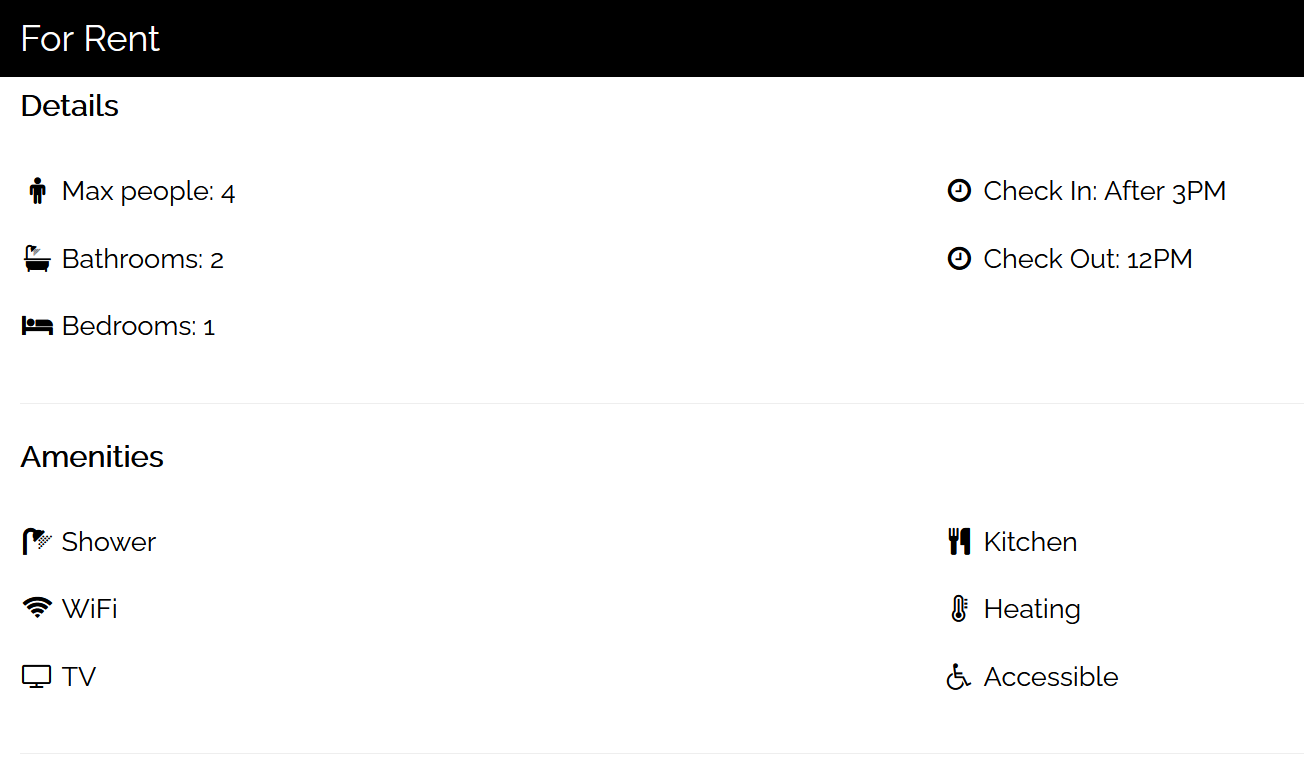
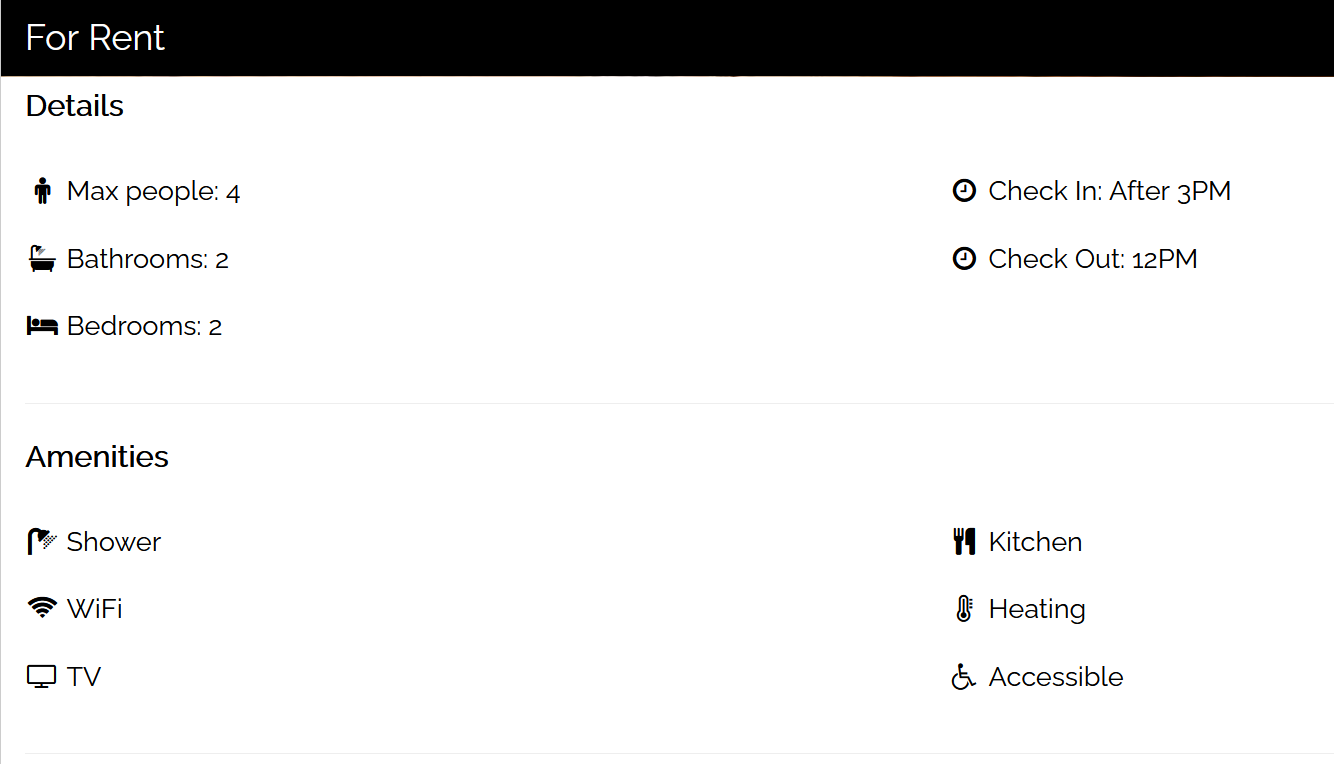
added pluralization support using Jinja2 and Babel

diff --git a/templates/index.html b/templates/index.html
@@ -28,7 +28,7 @@ body,h1,h2,h3,h4,h5,h6 {font-family: "Raleway", Arial, Helvetica, sans-serif}
       <div class="w3-col s6">
         <p><i class="fa fa-fw fa-male"></i> {{ max_people }}: 4</p>
         <p><i class="fa fa-fw fa-bath"></i> {{ bathroom }}: 2</p>
-        <p><i class="fa fa-fw fa-bed"></i> {{ bedroom }}: 1</p>
+        <p><i class="fa fa-fw fa-bed"></i> {{ bedroom | plural_formatting(bedroom_value, locale) }}: {{ bedroom_value }}</p>
       </div>
       <div class="w3-col s6">
         <p><i class="fa fa-fw fa-clock-o"></i> {{ check_in }}</p>

diff --git a/myapp_rental.py b/myapp_rental.py
@@ -2,6 +2,7 @@ from fastapi import FastAPI, Request
 from fastapi.responses import HTMLResponse
 from fastapi.staticfiles import StaticFiles
 from fastapi.templating import Jinja2Templates
+from babel.plural import PluralRule
 
 import glob
 import json
@@ -11,8 +12,9 @@ app = FastAPI()
 app.mount("/static", StaticFiles(directory="static"), name="static")
 templates = Jinja2Templates(directory="templates")
 
-app_language = 'en'
+default_fallback = 'en'
 languages = {}
+plural_rule = PluralRule({'one': 'n in 0..1'})
 
 language_list = glob.glob("languages/*.json")
 for lang in language_list:
@@ -22,12 +24,37 @@ for lang in language_list:
     with open(lang, 'r', encoding='utf8') as file:
         languages[lang_code] = json.load(file)
 
-@app.get("/rental/{language}", response_class=HTMLResponse)
-async def rental(request: Request, language: str):
-    if(language not in languages):
-        language = app_language
+
+# custom filters for Jinja2
+def plural_formatting(key_value, input, locale):
+    key = ''
+    for i in languages[locale]:
+        if(key_value == languages[locale][i]):
+            key = i
+            break
+
+    if not key:
+        return key_value
+
+    plural_key = f"{key}_plural"
+
+    if(plural_rule(input) != 'one' and plural_key in languages[locale]):
+        key = plural_key
+
+    return languages[locale][key]
+
+
+# assign filter to Jinja2
+templates.env.filters['plural_formatting'] = plural_formatting
+
+
+@app.get("/rental/{locale}", response_class=HTMLResponse)
+async def rental(request: Request, locale: str):
+    if(locale not in languages):
+        locale = default_fallback
 
     result = {"request": request}
-    result.update(languages[language])
+    result.update(languages[locale])
+    result.update({'locale': locale, 'bedroom_value': 2})
 
     return templates.TemplateResponse("index.html", result)
